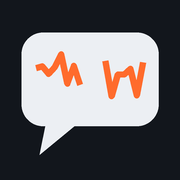
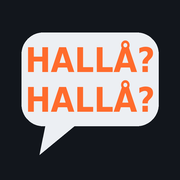
Pratbubbla med Hallå? Hallå? i rubriken och i appikonen
Claude-Session: https://claude.ai/code/session_01AwVcDu5zv7prsN5VKHxPky

Changed region(s): [[0.1389, 0.2222, 0.8611, 0.6389]]

diff --git a/index.html b/index.html
@@ -116,7 +116,9 @@ body{height:100%;display:flex;flex-direction:column;gap:10px;overflow-y:auto;
 .flag:focus-visible{outline:3px solid var(--accent);outline-offset:2px}
 .logo{height:clamp(52px,16vw,74px);width:100%;display:block;order:3}
 .skull{order:2;width:clamp(30px,9vw,44px);height:auto;display:block;margin-right:-4px}
-h1{font-size:clamp(56px,18vw,130px);line-height:.85;white-space:nowrap;padding-right:var(--om-w,0px)}
+h1{font-size:clamp(56px,18vw,130px);line-height:.85;white-space:nowrap;margin:0}
+.title-row{display:flex;align-items:center;gap:var(--ic-gap,10px);padding-right:var(--om-w,0px);min-width:0}
+.appicon{height:var(--ic-h,48px);width:auto;flex:none;display:block}
 .eyebrow{color:var(--ink);font-weight:600;white-space:normal;line-height:1.3;min-width:0}
 .lede,.tips{display:none}
 .panel{padding:8px 12px;gap:4px}
@@ -162,7 +164,14 @@ h1{font-size:clamp(56px,18vw,130px);line-height:.85;white-space:nowrap;padding-r
   <header class="brand">
     <button type="button" class="about-btn" id="aboutBtn" data-i18n="about">Om</button>
     <div class="brand-text">
+      <div class="title-row">
       <h1><span data-i18n="t1">Dålig </span><span data-i18n="t2">täckning</span></h1>
+      <svg class="appicon" viewBox="8 14 84 76" aria-hidden="true">
+        <rect x="12" y="18" width="76" height="52" rx="12" fill="var(--skull)"/>
+        <path d="M26 66L22 86L44 68Z" fill="var(--skull)"/>
+        <g fill="var(--accent)" style="font-family:var(--display);font-weight:800;font-size:21px" text-anchor="middle"><text x="50" y="45" textLength="60" lengthAdjust="spacingAndGlyphs" data-i18n="bubble1">HALLÅ?</text><text x="50" y="65" textLength="60" lengthAdjust="spacingAndGlyphs" data-i18n="bubble2">HALLÅ?</text></g>
+      </svg>
+      </div>
       <div class="sub">
       <div class="langs" role="group" aria-label="Språk / Language">
         <button type="button" class="flag" data-lang="sv" aria-label="Svenska" aria-pressed="true"><svg viewBox="0 0 16 10" aria-hidden="true"><rect width="16" height="10" fill="#006AA7"/><rect x="5" width="2" height="10" fill="#FECC00"/><rect y="4" width="16" height="2" fill="#FECC00"/></svg></button>
@@ -519,9 +528,9 @@ function dropCall(mode,btn){
 }
 
 const I18N={
- sv:{title:'Dålig täckning',eyebrow:'Soundboard för samtal du inte vill ha',t1:'Dålig ',t2:'täckning',vol:'Volym',drop:'Fejka avbrott',busy:'Upptagetton',sit:'Nätverksfel',sitS:'tre stigande toner',about:'Om',aboutTitle:'Så funkar det',close:'Stäng',madeBy:'Gjord av',contact:'Kontakt',privacy:'Integritetspolicy',version:'Version',disclaimer:'Appen spelar bara upp ljud i högtalaren. Den påverkar inte telefonnätet, samtal eller andra enheter.',
+ sv:{title:'Dålig täckning',eyebrow:'Soundboard för samtal du inte vill ha',t1:'Dålig ',t2:'täckning',vol:'Volym',drop:'Fejka avbrott',busy:'Upptagetton',sit:'Nätverksfel',sitS:'tre stigande toner',bubble1:'HALLÅ?',bubble2:'HALLÅ?',about:'Om',aboutTitle:'Så funkar det',close:'Stäng',madeBy:'Gjord av',contact:'Kontakt',privacy:'Integritetspolicy',version:'Version',disclaimer:'Appen spelar bara upp ljud i högtalaren. Den påverkar inte telefonnätet, samtal eller andra enheter.',
    silent:'Tyst',pick:'Välj ett eller flera ljud',onair:'Sänder nu',mixing:n=>`Mixar ${n} ljud`,dropping:'Avbrott',breaking:'Samtalet bryts…',ch:'KANAL',live:'SÄNDER'},
- en:{title:'Bad Line',eyebrow:"Soundboard for calls you don't want",t1:'Bad ',t2:'Line',vol:'Volume',drop:'Fake a dropped call',busy:'Busy tone',sit:'Network error',sitS:'three rising tones',about:'About',aboutTitle:'How it works',close:'Close',madeBy:'Made by',contact:'Contact',privacy:'Privacy policy',version:'Version',disclaimer:'The app only plays sound through the speaker. It does not affect the phone network, calls or other devices.',
+ en:{title:'Bad Line',eyebrow:"Soundboard for calls you don't want",t1:'Bad ',t2:'Line',vol:'Volume',drop:'Fake a dropped call',busy:'Busy tone',sit:'Network error',sitS:'three rising tones',bubble1:'HELLO?',bubble2:'HELLO?',about:'About',aboutTitle:'How it works',close:'Close',madeBy:'Made by',contact:'Contact',privacy:'Privacy policy',version:'Version',disclaimer:'The app only plays sound through the speaker. It does not affect the phone network, calls or other devices.',
    silent:'Silent',pick:'Pick one or more sounds',onair:'On air',mixing:n=>`Mixing ${n} sounds`,dropping:'Dropping',breaking:'Call breaking up…',ch:'CHANNEL',live:'ON AIR'}
 };
 const SCENE_EN={"tackning": {"name": "Choppy line", "what": "The line breaks up into robot mush, digital bursts and sudden silence.", "spec": "Voice codec in 20 ms frames"}, "tag": {"name": "Train crash", "what": "A train crashes at full speed. Cars crumple, sheet metal folds and steel tears apart.", "spec": "4,000 tonnes of metal at 120 km/h"}, "rymd": {"name": "Space station", "what": "Digital interference and a shredded alien voice talking in the background.", "spec": "TDMA buzz 217 Hz · 3-bit voice"}, "metall": {"name": "Death metal", "what": "Violent attacks of distortion, bass blasts and screams that come and go.", "spec": "Tempo: none · Mercy: none"}, "storm": {"name": "Hailstorm", "what": "Things get smashed and torn apart at full force.", "spec": "Roof tiles · sheet metal · glass · timber"}, "bygg": {"name": "Construction site", "what": "Jackhammer, power drill, violent hammer blows and metal grinding on metal. Completely irregular.", "spec": "No rhythm. No finesse."}};
@@ -598,10 +607,13 @@ document.getElementById('vol').addEventListener('input',e=>{if(master)master.gai
 // Scale the app name to fill the banner width beside the About button
 function fitEyebrow(){
   const h=document.querySelector('h1'),box=document.querySelector('.brand-text'),om=document.getElementById('aboutBtn');if(!h||!box)return;
-  const omW=om?om.offsetWidth+12:0;h.style.setProperty('--om-w',omW+'px');
+  const row=h.parentElement,omW=om?om.offsetWidth+12:0;row.style.setProperty('--om-w',omW+'px');
   h.style.fontSize='100px';
   const r=document.createRange();r.selectNodeContents(h);const tw=r.getBoundingClientRect().width;
-  const avail=box.clientWidth-omW;if(tw>0)h.style.fontSize=Math.min(170,Math.max(24,100*avail/tw)).toFixed(1)+'px';
+  // icon is ~1.1 cap heights tall (font size * 0.8), aspect 84:76, plus a gap of 0.1 font size
+  const per=100+0.95*84/76*100+14, avail=box.clientWidth-omW;
+  const fs=Math.min(170,Math.max(24,100*avail/(tw+(per-100))));
+  h.style.fontSize=fs.toFixed(1)+'px';row.style.setProperty('--ic-h',(fs*.95).toFixed(1)+'px');row.style.setProperty('--ic-gap',(fs*.14).toFixed(1)+'px');
 }
 setLang(lang);
 fitEyebrow();window.addEventListener('resize',fitEyebrow);
